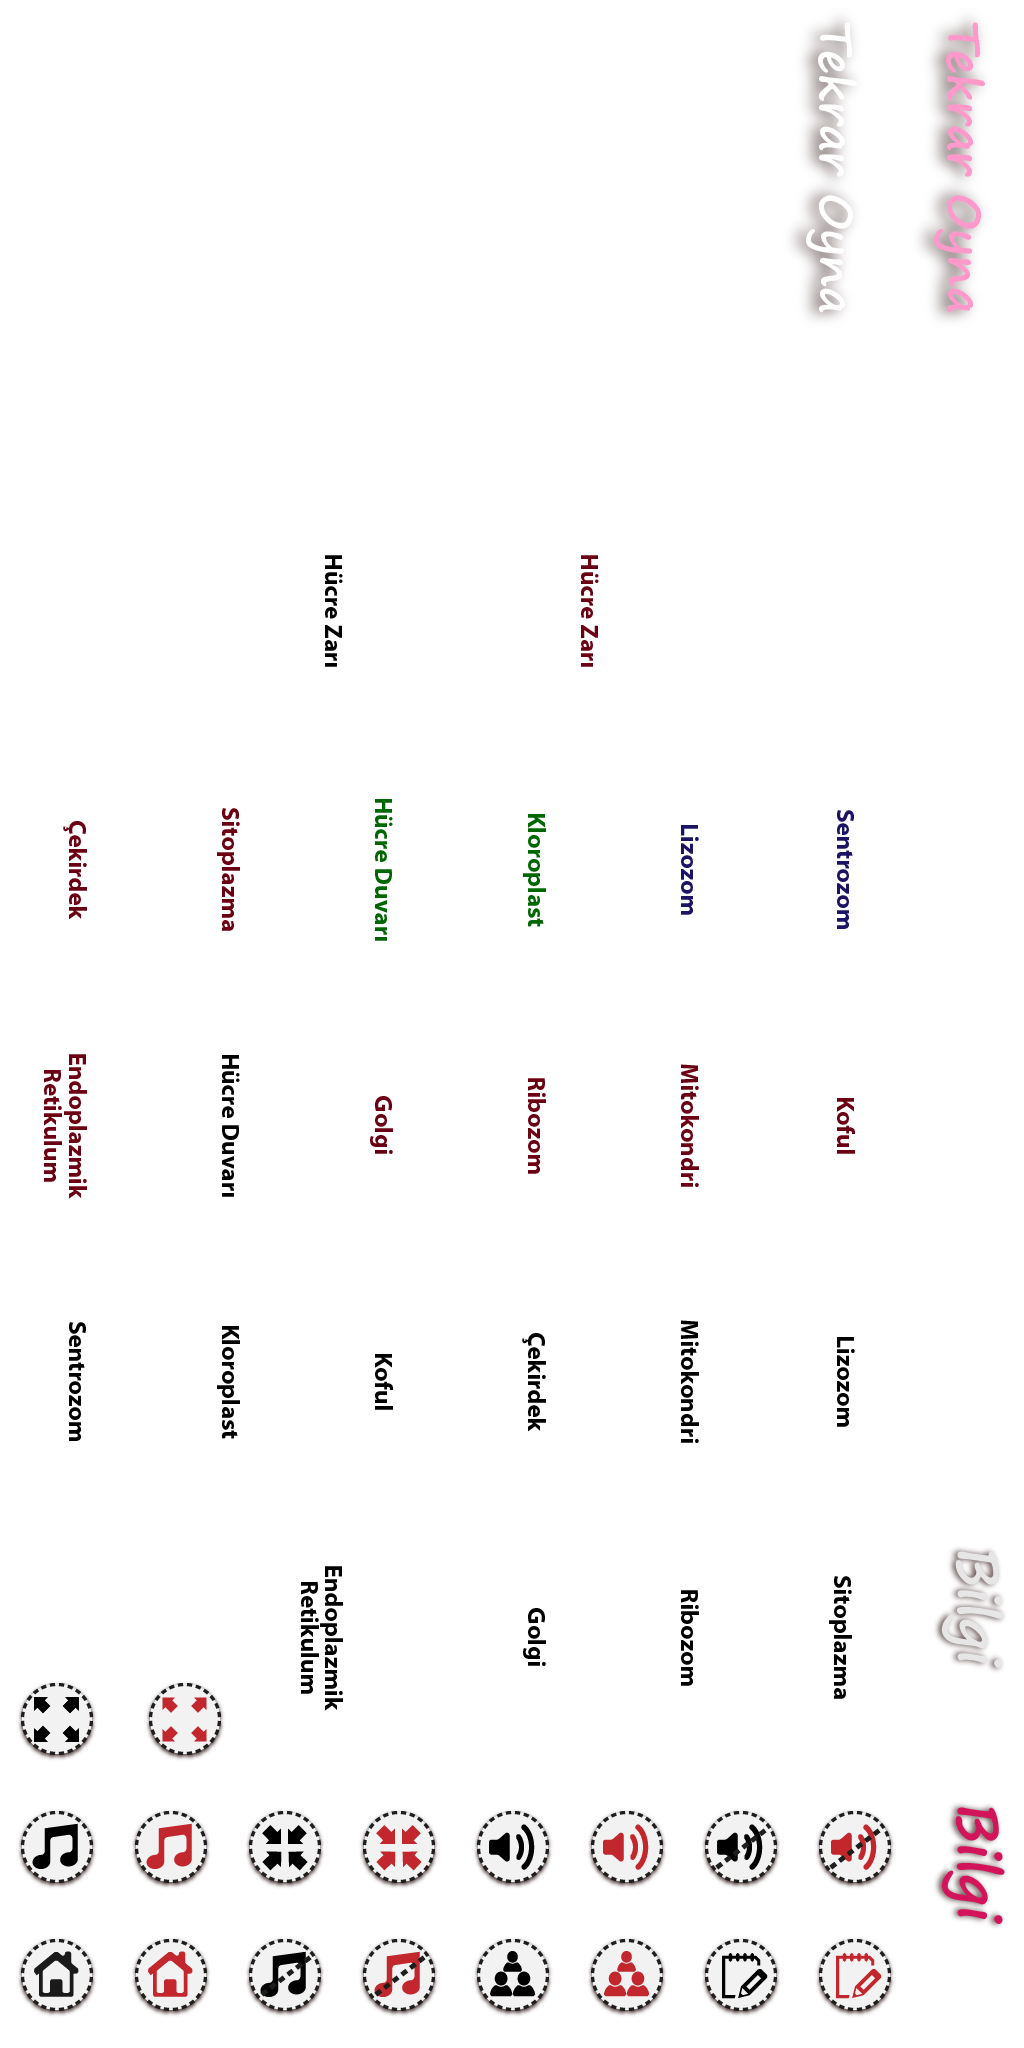
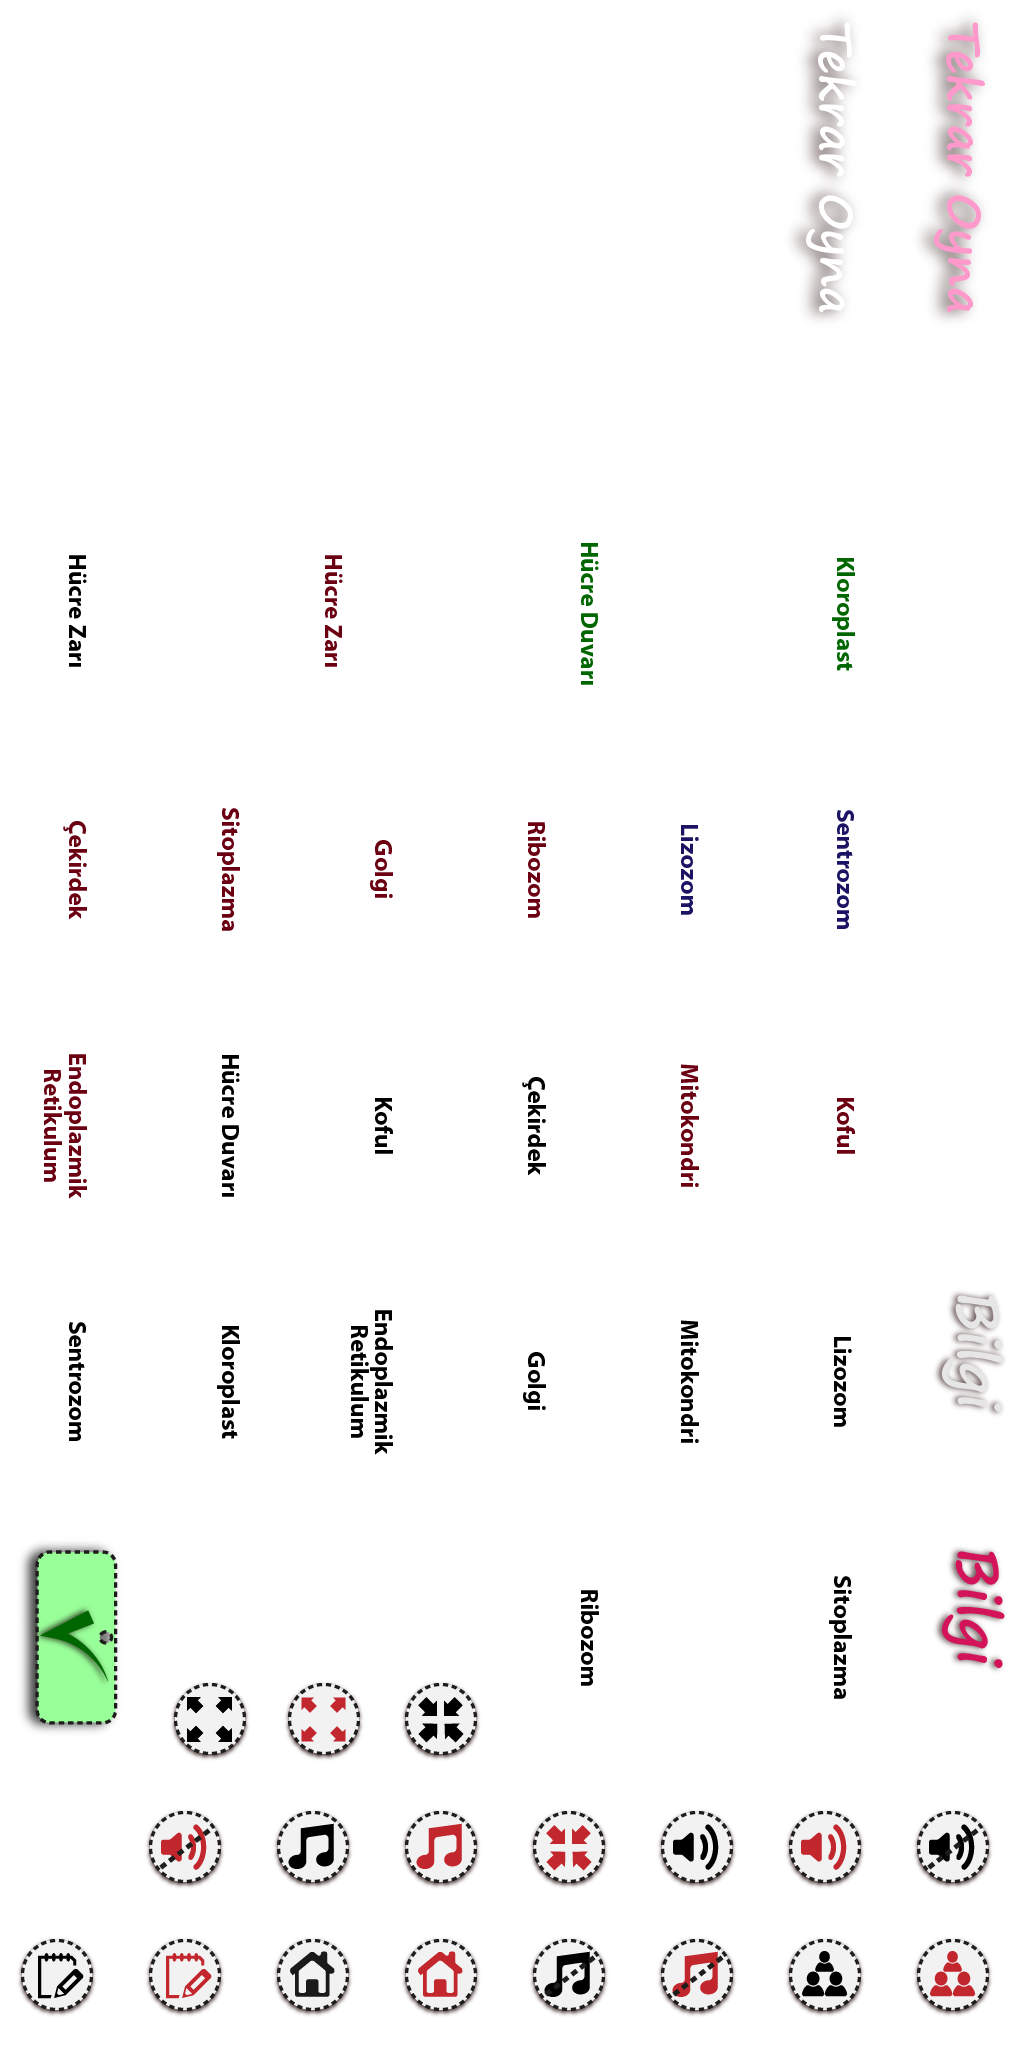
düzeldi

diff --git a/scripts/c3runtime.js b/scripts/c3runtime.js
@@ -4458,6 +4458,7 @@ self.C3_JsPropNameTable = [
 	{Rotate: 0},
 	{cark: 0},
 	{btnTekrarOyna: 0},
+	{yesilTik: 0},
 	{DragDrop: 0},
 	{Pin: 0},
 	{Tween: 0},
@@ -4519,6 +4520,7 @@ self.InstanceType = {
 	tebrikler: class extends self.ISpriteInstance {},
 	cark: class extends self.ISpriteInstance {},
 	btnTekrarOyna: class extends self.ISpriteInstance {},
+	yesilTik: class extends self.ISpriteInstance {},
 	ortakk: class extends self.ISpriteInstance {},
 	hayvansal: class extends self.ISpriteInstance {},
 	bitkisel: class extends self.ISpriteInstance {},
@@ -4643,21 +4645,34 @@ self.C3_ExpressionFuncs = [
 		() => 505,
 		() => "",
 		() => 0.1,
+		() => 402,
+		() => 150,
 		() => 545,
-		() => 585,
-		() => 625,
-		() => 660,
-		() => 695,
-		() => 730,
-		() => 770,
 		() => 1568,
+		() => 290,
+		() => 585,
+		() => 719,
+		() => 625,
+		() => 1350,
+		() => 660,
+		() => 510,
+		() => 695,
+		() => 1038,
+		() => 730,
+		() => 608,
+		() => 770,
+		() => 1247,
 		() => 594,
+		() => 1460,
 		() => 1569,
 		() => 630,
+		() => 1146,
 		() => 595,
 		() => 590,
+		() => 827,
 		() => 588,
 		() => 631,
+		() => 930,
 		p => {
 			const v0 = p._GetNode(0).GetVar();
 			return () => v0.GetValue();
